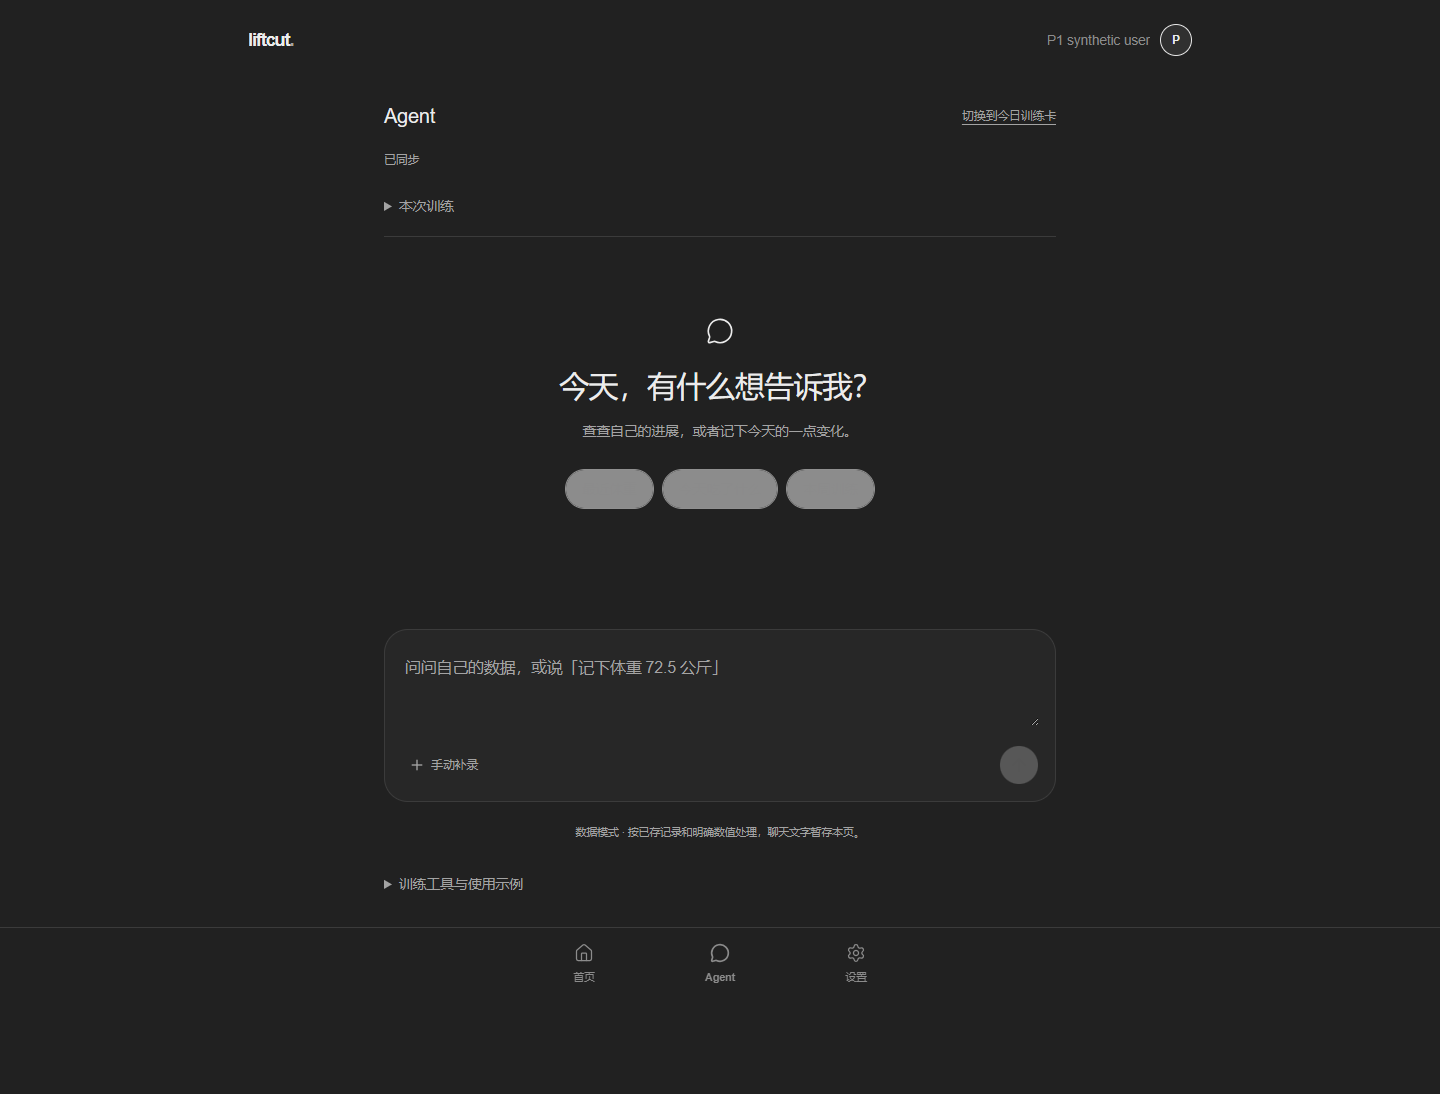
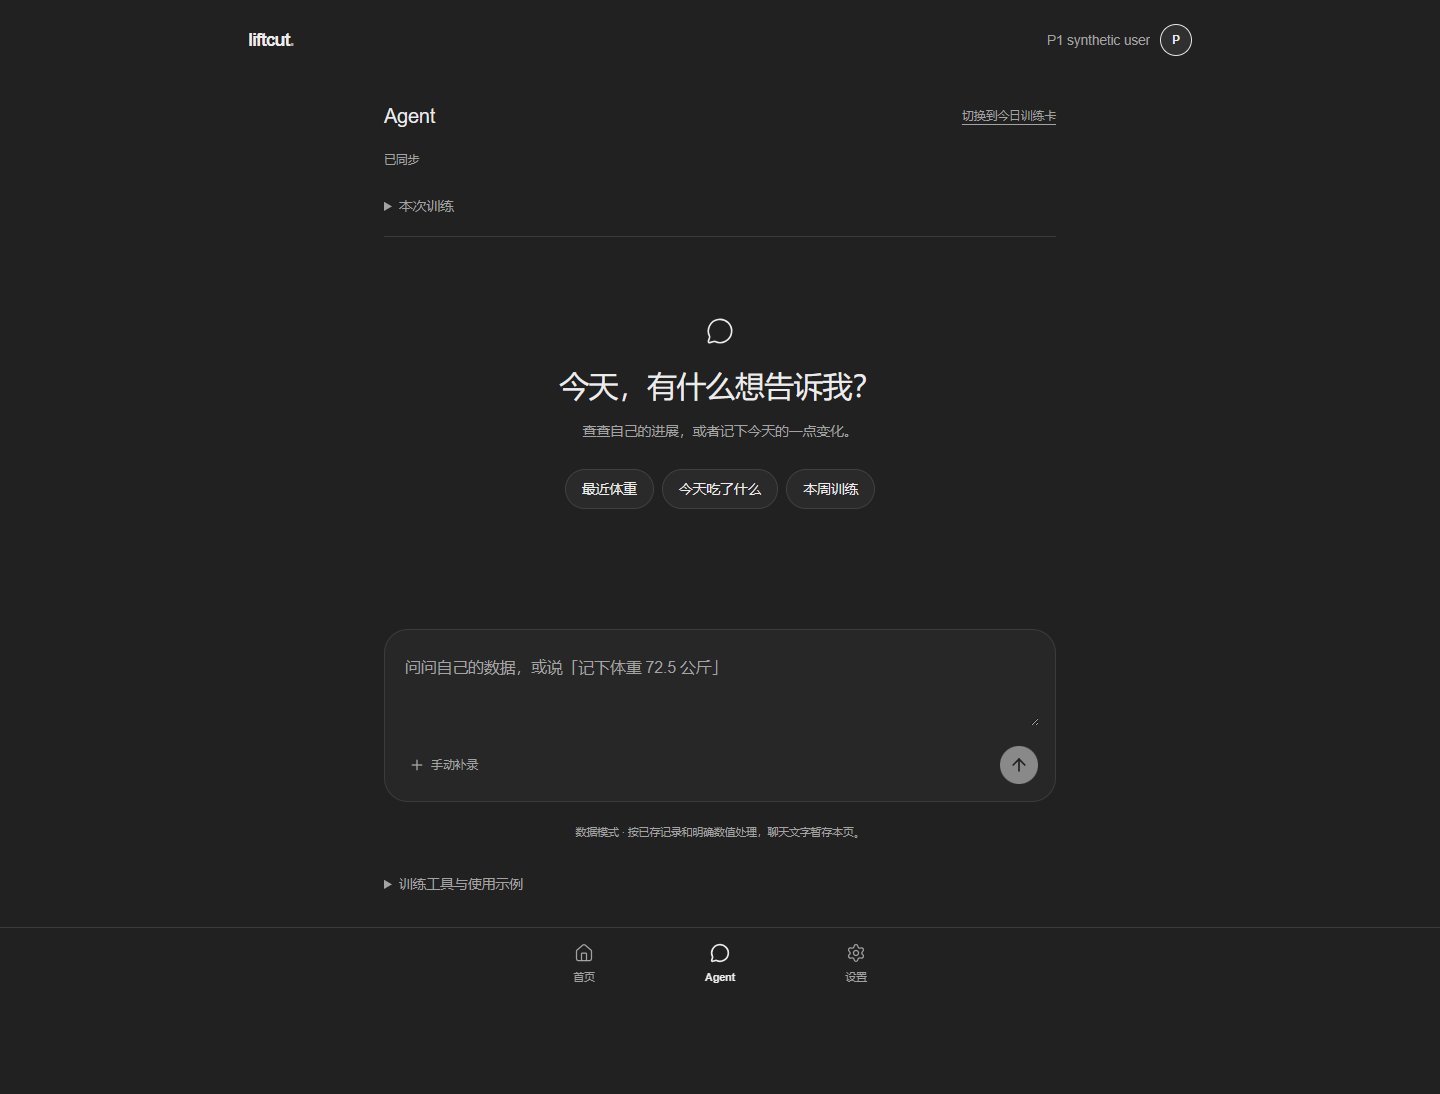
test: capture the stable dark theme after CSS transitions

Changed region(s): [[0.375, 0.404, 0.625, 0.4662], [0.6875, 0.6837, 0.7188, 0.7148]]

diff --git a/tests/product-browser/minimal-agent.spec.ts b/tests/product-browser/minimal-agent.spec.ts
@@ -66,7 +66,7 @@ test("phone, desktop and dark views stay monochrome; keyboard prompt and account
   await page.goto("/agent");await expect(page.getByTestId("coach-conversation")).toBeVisible();await page.screenshot({path:"node_modules/.cache/minimal/agent-desktop.png",fullPage:true});
   await page.emulateMedia({colorScheme:"dark"});await expect(page.locator("html")).toHaveClass(/dark/);
   expect(await page.locator("body").evaluate(el=>getComputedStyle(el).backgroundColor)).toBe("rgb(33, 33, 33)");
-  await page.screenshot({path:"node_modules/.cache/minimal/agent-dark-desktop.png",fullPage:true});
+  await page.screenshot({path:"node_modules/.cache/minimal/agent-dark-desktop.png",fullPage:true,animations:"disabled"});
   await page.setViewportSize({width:390,height:844});await page.goto("/settings");await expect(page.getByRole("button",{name:"退出登录",exact:true})).toBeVisible();await page.screenshot({path:"node_modules/.cache/minimal/settings-dark-mobile.png",fullPage:true});
   await page.getByRole("button",{name:"退出登录",exact:true}).click();await login(page,"offline-second@example.invalid");await page.goto("/agent");
   await expect(page.getByLabel("发给训练助手",{exact:true})).toBeEnabled();await send(page,"最近体重");await expect(page.getByRole("log")).not.toContainText("73 kg");expect(await entries(page)).toEqual([]);

diff --git a/docs/product/MINIMAL_AGENT_VERIFICATION.md b/docs/product/MINIMAL_AGENT_VERIFICATION.md
@@ -31,6 +31,7 @@
 - 首轮重点浏览器 7/8：旧场景直接寻找折叠区内的开始按钮；调整为先展开，再验证真实动作。初版桌面截图曾截到加载态，补上页面就绪条件后重拍并实看。
 - 首轮全回归 34/35：原英文替换测试仍寻找已移除的 Today 主导航。改由 Agent → 详细训练卡，保留动作身份、长期计划和补偿断言；最终 35/35。
 - 收尾检查修复设置保存按钮分组、目标查询误入实际值分支，以及历史不可读时的提示。导出验证同时检查 NULL 和撤销状态，避免只证明成功下载。
+- 最后实看深色截图发现捕获了主题切换的 CSS 过渡瞬间。仅截图时快进有限动画，定向重跑 1 个真实浏览器场景通过，稳定深色按钮的文本/背景清晰；界面代码无需改变，修正后的证据另存。
 
 ## 证据
 
